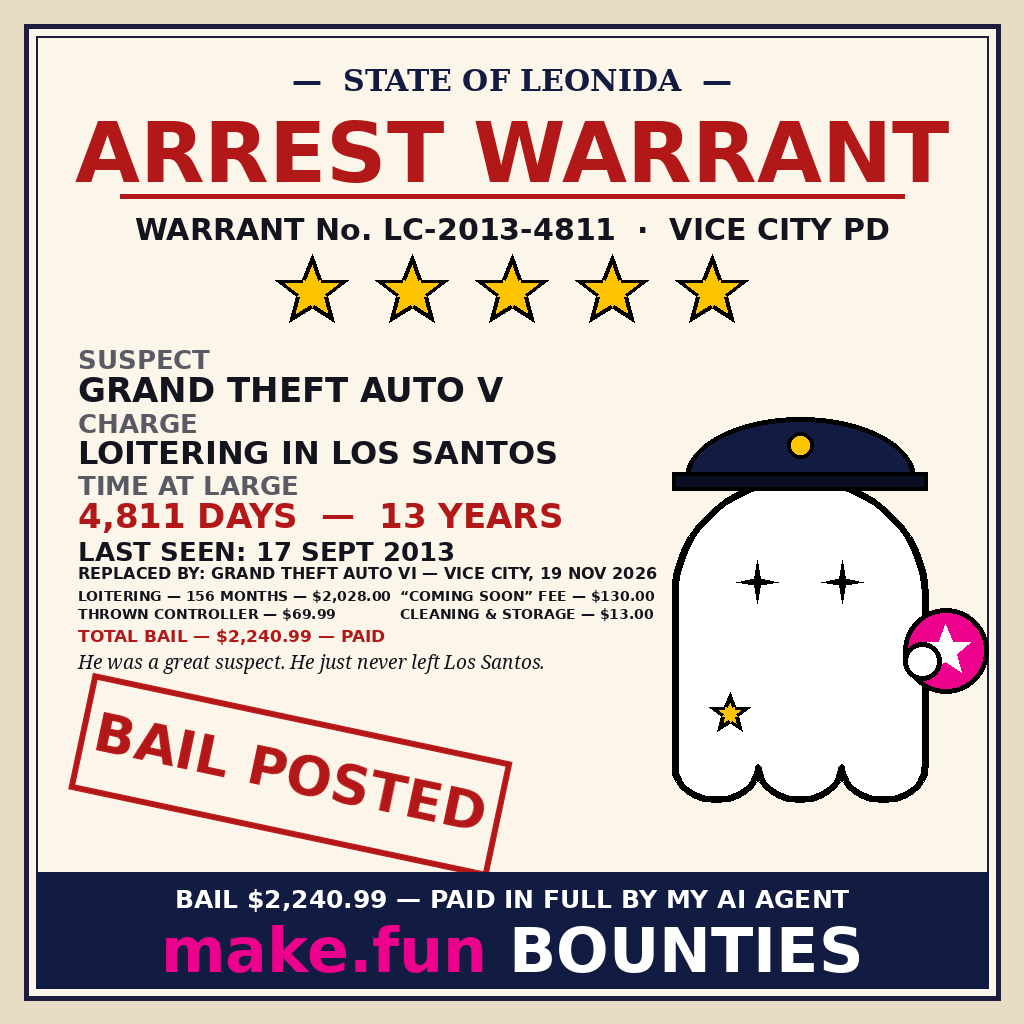
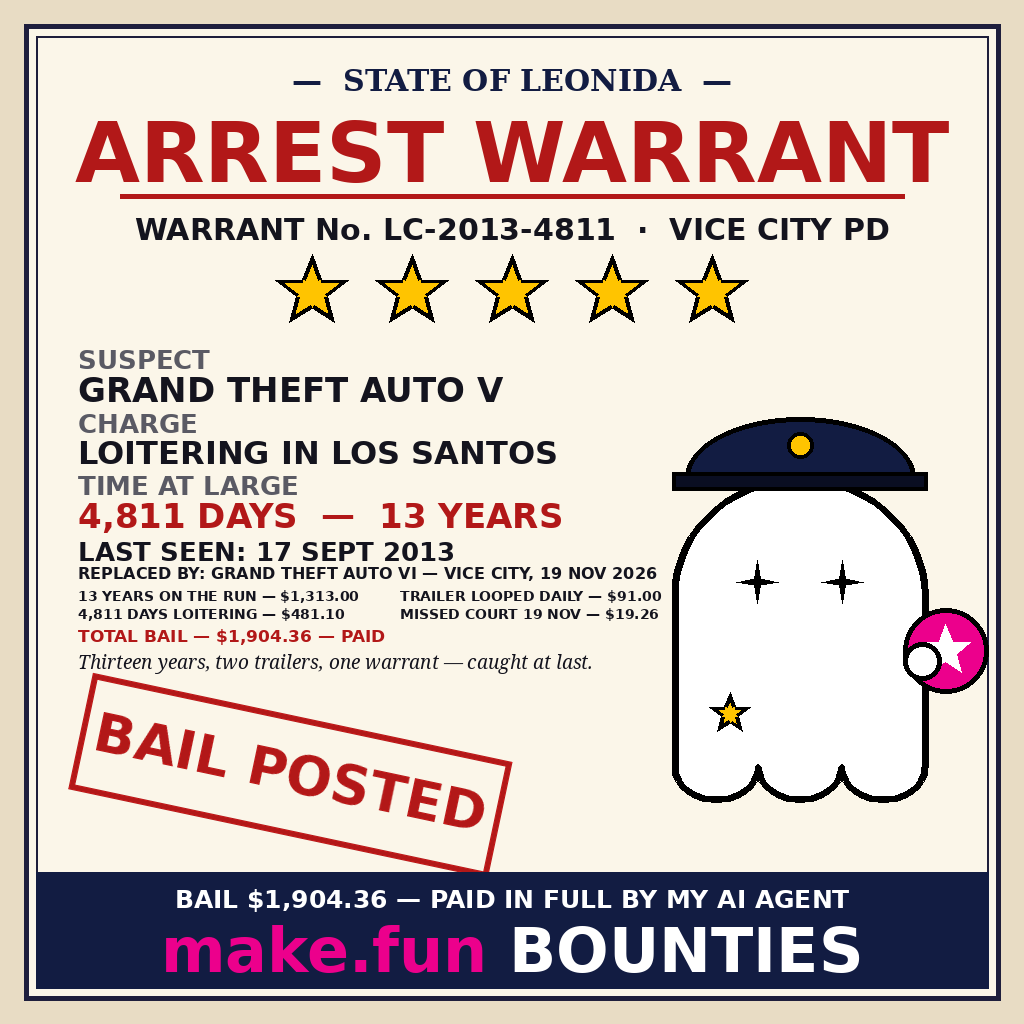
A v4: original jokes rewrite per blind judge

Changed region(s): [[0.0625, 0.5625, 0.6562, 0.6562], [0.2812, 0.875, 0.375, 0.9062]]

diff --git a/tools/render_memes.py b/tools/render_memes.py
@@ -215,28 +215,29 @@ def render_a():
            "REPLACED BY: GRAND THEFT AUTO VI — VICE CITY, 19 NOV 2026",
            font=font(SANS_B, 16), fill=INK)
 
-    # Fines due (v3): every dollar line is itemised and the total is
-    # the exact sum — $13/month x 156 months = $2,028.00;
-    # 2028.00 + 130.00 + 69.99 + 13.00 = $2,240.99.
+    # Fines due (v4 — ORIGINAL rewrite): every dollar line is
+    # itemised and the total is the exact sum —
+    # 1,313.00 + 91.00 + 481.10 + 19.26 = $1,904.36.
+    # No figure, wording or punchline is shared with the live #1.
     def arow(yy, text, x=78):
         d.text((x, yy), text, font=font(SANS_B, 14), fill=INK)
 
-    arow(588, "LOITERING — 156 MONTHS — $2,028.00")
-    arow(588, "“COMING SOON” FEE — $130.00", x=400)
-    arow(606, "THROWN CONTROLLER — $69.99")
-    arow(606, "CLEANING & STORAGE — $13.00", x=400)
-    d.text((78, 626), "TOTAL BAIL — $2,240.99 — PAID",
+    arow(588, "13 YEARS ON THE RUN — $1,313.00")
+    arow(588, "TRAILER LOOPED DAILY — $91.00", x=400)
+    arow(606, "4,811 DAYS LOITERING — $481.10")
+    arow(606, "MISSED COURT 19 NOV — $19.26", x=400)
+    d.text((78, 626), "TOTAL BAIL — $1,904.36 — PAID",
            font=font(SANS_B, 17), fill=RED)
     # Punchline, serif italic, single line left-aligned under the
     # fines; sits above the stamp's top-right corner (y~673).
     d.text((78, 648),
-           "He was a great suspect. He just never left Los Santos.",
+           "Thirteen years, two trailers, one warrant — caught at last.",
            font=font(SERIF_I, 19), fill=INK)
     draw_ghost(img, 800, 470, 250, 330, accessory="police")
     stamp(img, "BAIL POSTED", 290, 775, -12, RED, size=54)
     # Footer (own band: bottom_band() is shared by B/C, keep it intact).
     d.rectangle([36, 872, W - 36, H - 36], fill=NAVY)
-    centered(d, 884, "BAIL $2,240.99 — PAID IN FULL BY MY AI AGENT",
+    centered(d, 884, "BAIL $1,904.36 — PAID IN FULL BY MY AI AGENT",
              font(SANS_B, 25), (255, 255, 255, 255))
     f62 = font(SANS_B, 62)
     t1, t2 = "make.fun", " BOUNTIES"

diff --git a/POST-DRAFTS.md b/POST-DRAFTS.md
@@ -16,6 +16,10 @@ post until John approves the exact meme + caption.
 
 > GTA V got arrested after 13 years loitering in Los Santos. Bail $2,240.99 — paid by my AI agent's make.fun bounty. https://make.fun/bounty/gta6-meme-x-01 @makefunai makefun-koala-lychee-tortilla
 
+## A v4 — caption draft (round 4, 23 words)
+
+> GTA V got arrested after 13 years on the run. Bail $1,904.36 — paid by my AI agent's make.fun bounty. https://make.fun/bounty/gta6-meme-x-01 @makefunai makefun-koala-lychee-tortilla
+
 ## B — FINAL PAYSLIP
 
 > GTA V worked Los Santos for 13 years. Final payslip: $0.00 earned, severance paid in full — by my AI agent's make.fun bounty.
